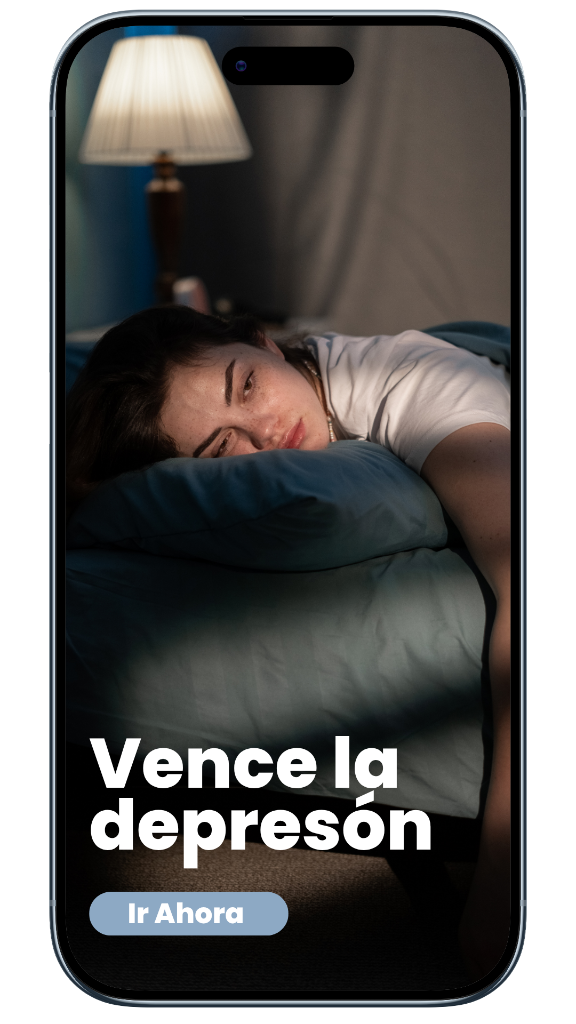
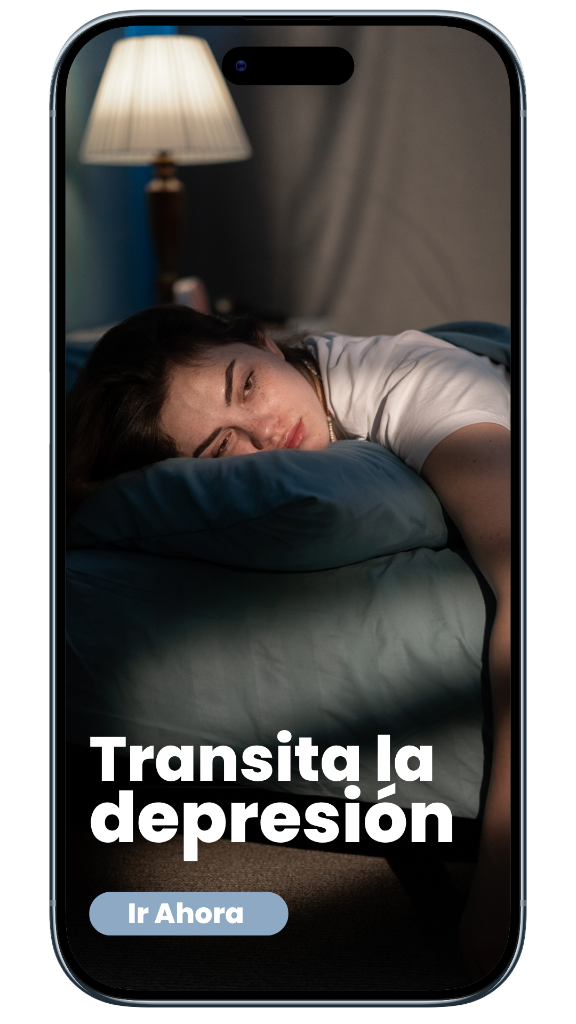
fix: update phone cards titles and image

Changed region(s): [[0.1562, 0.6875, 0.7812, 0.8438], [0.3125, 0.8438, 0.3438, 0.875]]

diff --git a/src/components/home/PhoneMarqueeSlider.tsx b/src/components/home/PhoneMarqueeSlider.tsx
@@ -27,8 +27,8 @@ const cards = [
   {
     id: "card-4",
     src: "/images/slider/phone-card-4.png",
-    title: "Vence la depresión",
-    alt: "Terapia para vencer la depresión en Soulmar",
+    title: "Transita la depresión",
+    alt: "Terapia para transitar la depresión en Soulmar",
   },
   {
     id: "card-5",
